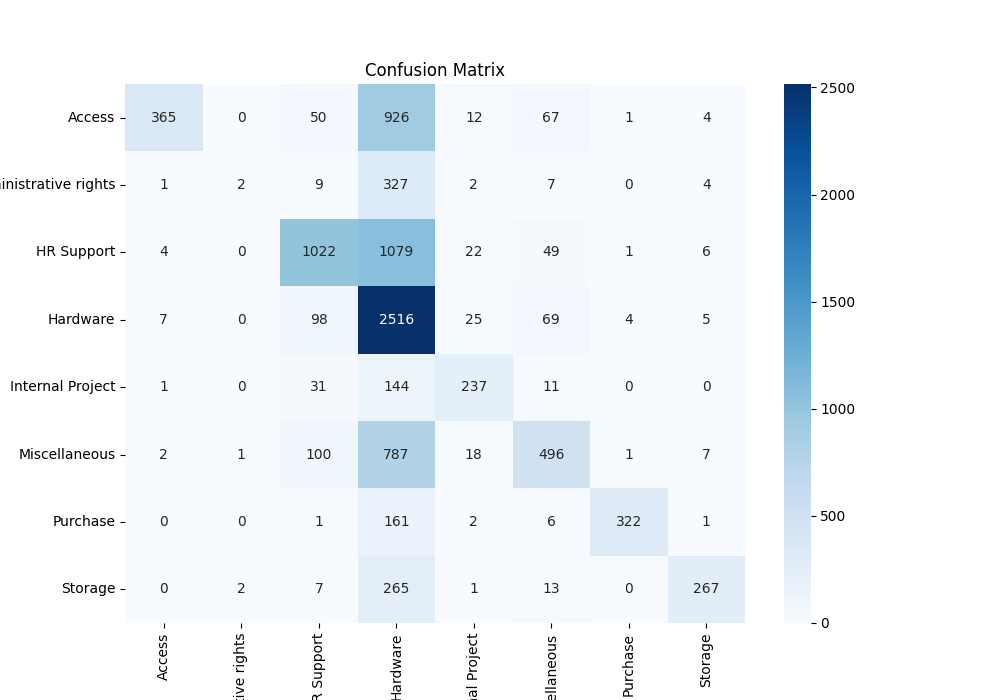
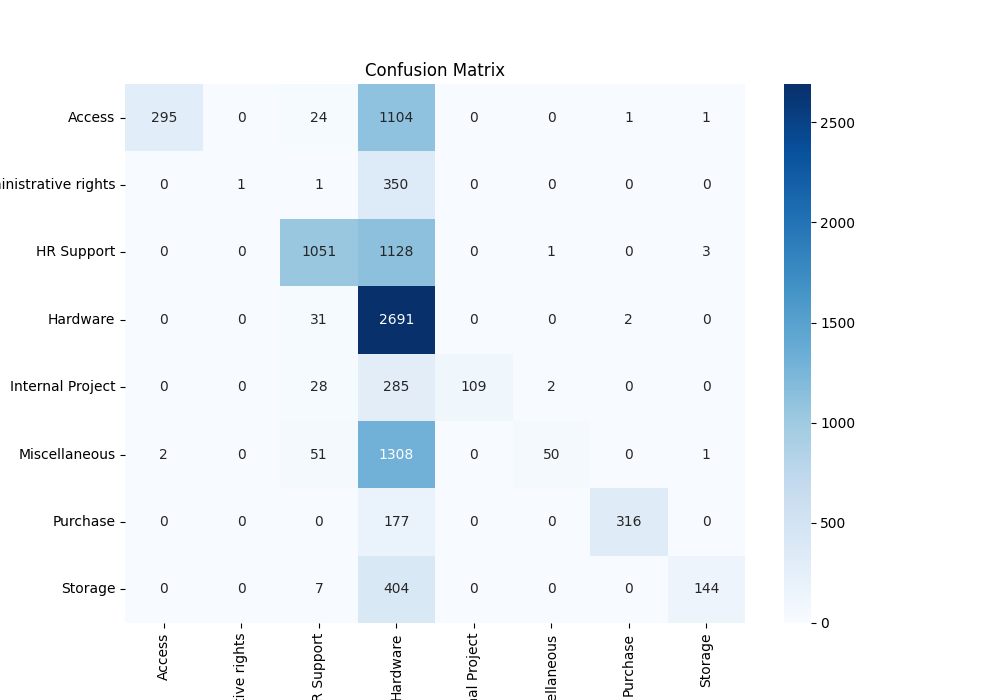
feat: auto logging

diff --git a/src/main-rf.py b/src/main-rf.py
@@ -1,0 +1,118 @@
+import pandas as pd
+import matplotlib.pyplot as plt
+import seaborn as sns
+from sklearn.preprocessing import LabelEncoder
+from sklearn.model_selection import train_test_split
+from sklearn.feature_extraction.text import TfidfVectorizer
+from sklearn.pipeline import Pipeline
+from sklearn.ensemble import RandomForestClassifier
+from sklearn.metrics import accuracy_score, confusion_matrix
+import joblib
+import mlflow
+
+import dagshub
+dagshub.init(repo_owner='Pratt33', repo_name='smart-ticket-routing-mlflow', mlflow=True)
+
+# Set MLflow tracking URI to local mlruns directory
+# tracking server allows to store artifacts, parameters, and metrics
+#mlflow.set_tracking_uri("file:./mlruns")#local storage for MLflow
+#mlflow.set_tracking_uri("http://localhost:5000")# local server for MLflow
+#mlflow.set_tracking_uri("https://dagshub.com/Pratt33/smart-ticket-routing-mlflow.mlflow")# dagshub server for MLflow
+mlflow.set_tracking_uri("http://ec2-3-108-54-126.ap-south-1.compute.amazonaws.com:5000/")# remote server for MLflow with aws
+
+# Load the ticket dataset
+df = pd.read_csv('data/raw/all_tickets_processed_improved_v3.csv')
+
+# Encode labels - convert text categories to numbers
+# LabelEncoder converts categorical labels to numerical values (e.g., 'Hardware' -> 0, 'Access' -> 1)
+label_encoder = LabelEncoder()
+y_encoded = label_encoder.fit_transform(df['Topic_group'])
+
+# Split data into training and testing sets
+# test_size=0.2 means 20% for testing, 80% for training
+# random_state=42 ensures reproducible results
+# stratify=y_encoded maintains the same proportion of each class in train/test sets
+X_train, X_test, y_train, y_test = train_test_split(
+    df['Document'], 
+    y_encoded, 
+    test_size=0.2, 
+    random_state=42, 
+    stratify=y_encoded
+)
+max_features =8000  # Limit vocabulary size to reduce noise
+max_iter = 1000  # Maximum iterations for convergence in Logistic Regression
+C = 1.0  # Regularization parameter to prevent overfitting
+
+# Create a pipeline for text processing and model training
+# TF-IDF works on how rare words are, which is exactly what we want for ticket classification
+# Pipeline helps avoid data leakage and ensures same transformations for train/test data
+pipeline = Pipeline([
+    # TF-IDF Vectorizer - converts text to numerical features
+    ('tfidf', TfidfVectorizer(
+        max_features=max_features,      # Limit vocabulary size to reduce noise
+        ngram_range=(1, 2),      # Use unigrams and bigrams for better context
+        stop_words='english',    # Remove common English words
+        max_df=0.95,            # Ignore terms in more than 95% of documents
+        min_df=2                # Ignore terms in less than 2 documents
+    )),
+    # Random Forest classifier
+    ('classifier', RandomForestClassifier(
+        n_estimators=100,      # Number of trees in the forest
+        max_depth=10,          # Limit depth to prevent overfitting
+        min_samples_split=10  # Minimum samples to split an internal node
+    ))
+])
+
+mlflow.set_experiment("ticket-rf")
+
+# Start a single MLflow run for everything
+with mlflow.start_run():
+    # Enable autolog but disable dataset logging to avoid Series warnings
+    mlflow.autolog(log_datasets=False)
+    
+    # Train the model - no more dataset warnings
+    pipeline.fit(X_train, y_train)
+    
+    # Make predictions
+    y_pred = pipeline.predict(X_test)
+    
+    # Calculate accuracy
+    accuracy = accuracy_score(y_test, y_pred)
+    print(f'Accuracy: {accuracy * 100:.2f}%')
+    
+    # Log custom artifacts (confusion matrix, code, tags)
+    cm = confusion_matrix(y_test, y_pred)
+    plt.figure(figsize=(10, 7))
+    sns.heatmap(cm, annot=True, fmt='d', cmap='Blues', 
+                xticklabels=label_encoder.classes_, 
+                yticklabels=label_encoder.classes_)
+    plt.xlabel('Predicted')
+    plt.ylabel('Actual')
+    plt.title('Confusion Matrix')
+    plt.savefig('visualizations/confusion_matrix.png')
+    
+    mlflow.log_artifact('visualizations/confusion_matrix.png')
+    mlflow.log_artifact(__file__)
+    
+    # Log datasets manually (as you're already doing)
+    train_df = pd.DataFrame({'Document': X_train, 'Topic_group': label_encoder.inverse_transform(y_train)})
+    test_df = pd.DataFrame({'Document': X_test, 'Topic_group': label_encoder.inverse_transform(y_test)})
+    
+    train_dataset = mlflow.data.from_pandas(train_df)
+    test_dataset = mlflow.data.from_pandas(test_df)
+    
+    mlflow.log_input(train_dataset, "train")
+    mlflow.log_input(test_dataset, "test")
+    
+    mlflow.set_tag('author', 'Pratt33')
+    mlflow.set_tag('model_type', 'Random Forest')
+    
+    print("Experiment logged to MLflow successfully")
+
+# Convert predictions back to original category names
+y_pred_labels = label_encoder.inverse_transform(y_pred)
+
+# Save the trained model and label encoder for future use
+joblib.dump(pipeline, 'models/model.pkl')
+joblib.dump(label_encoder, 'models/label_encoder.pkl')
+print("Model and label encoder saved successfully!")
